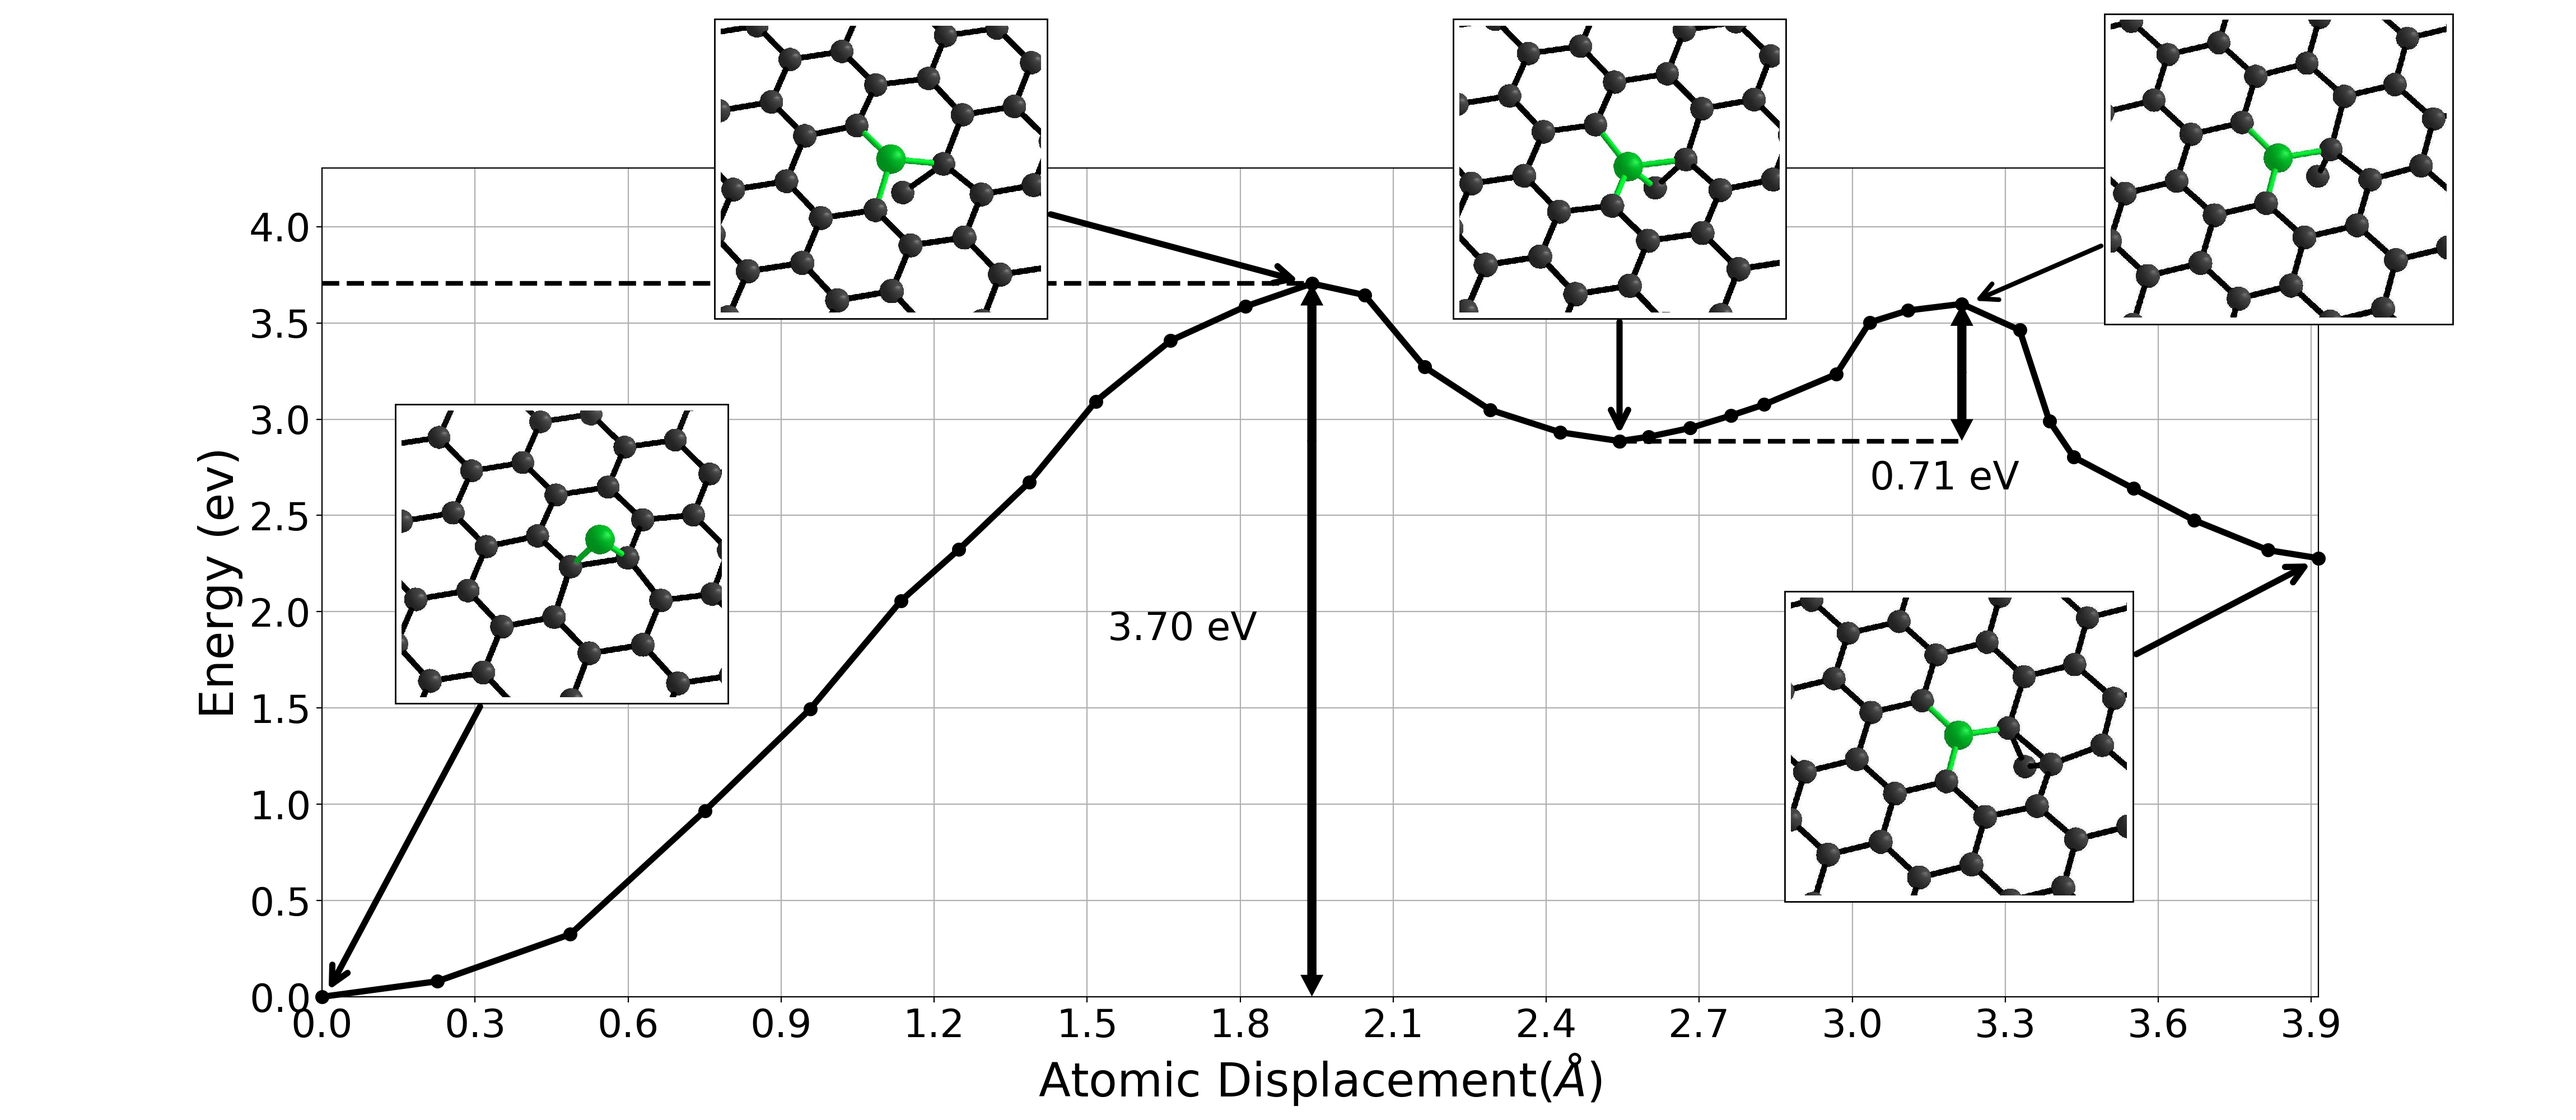
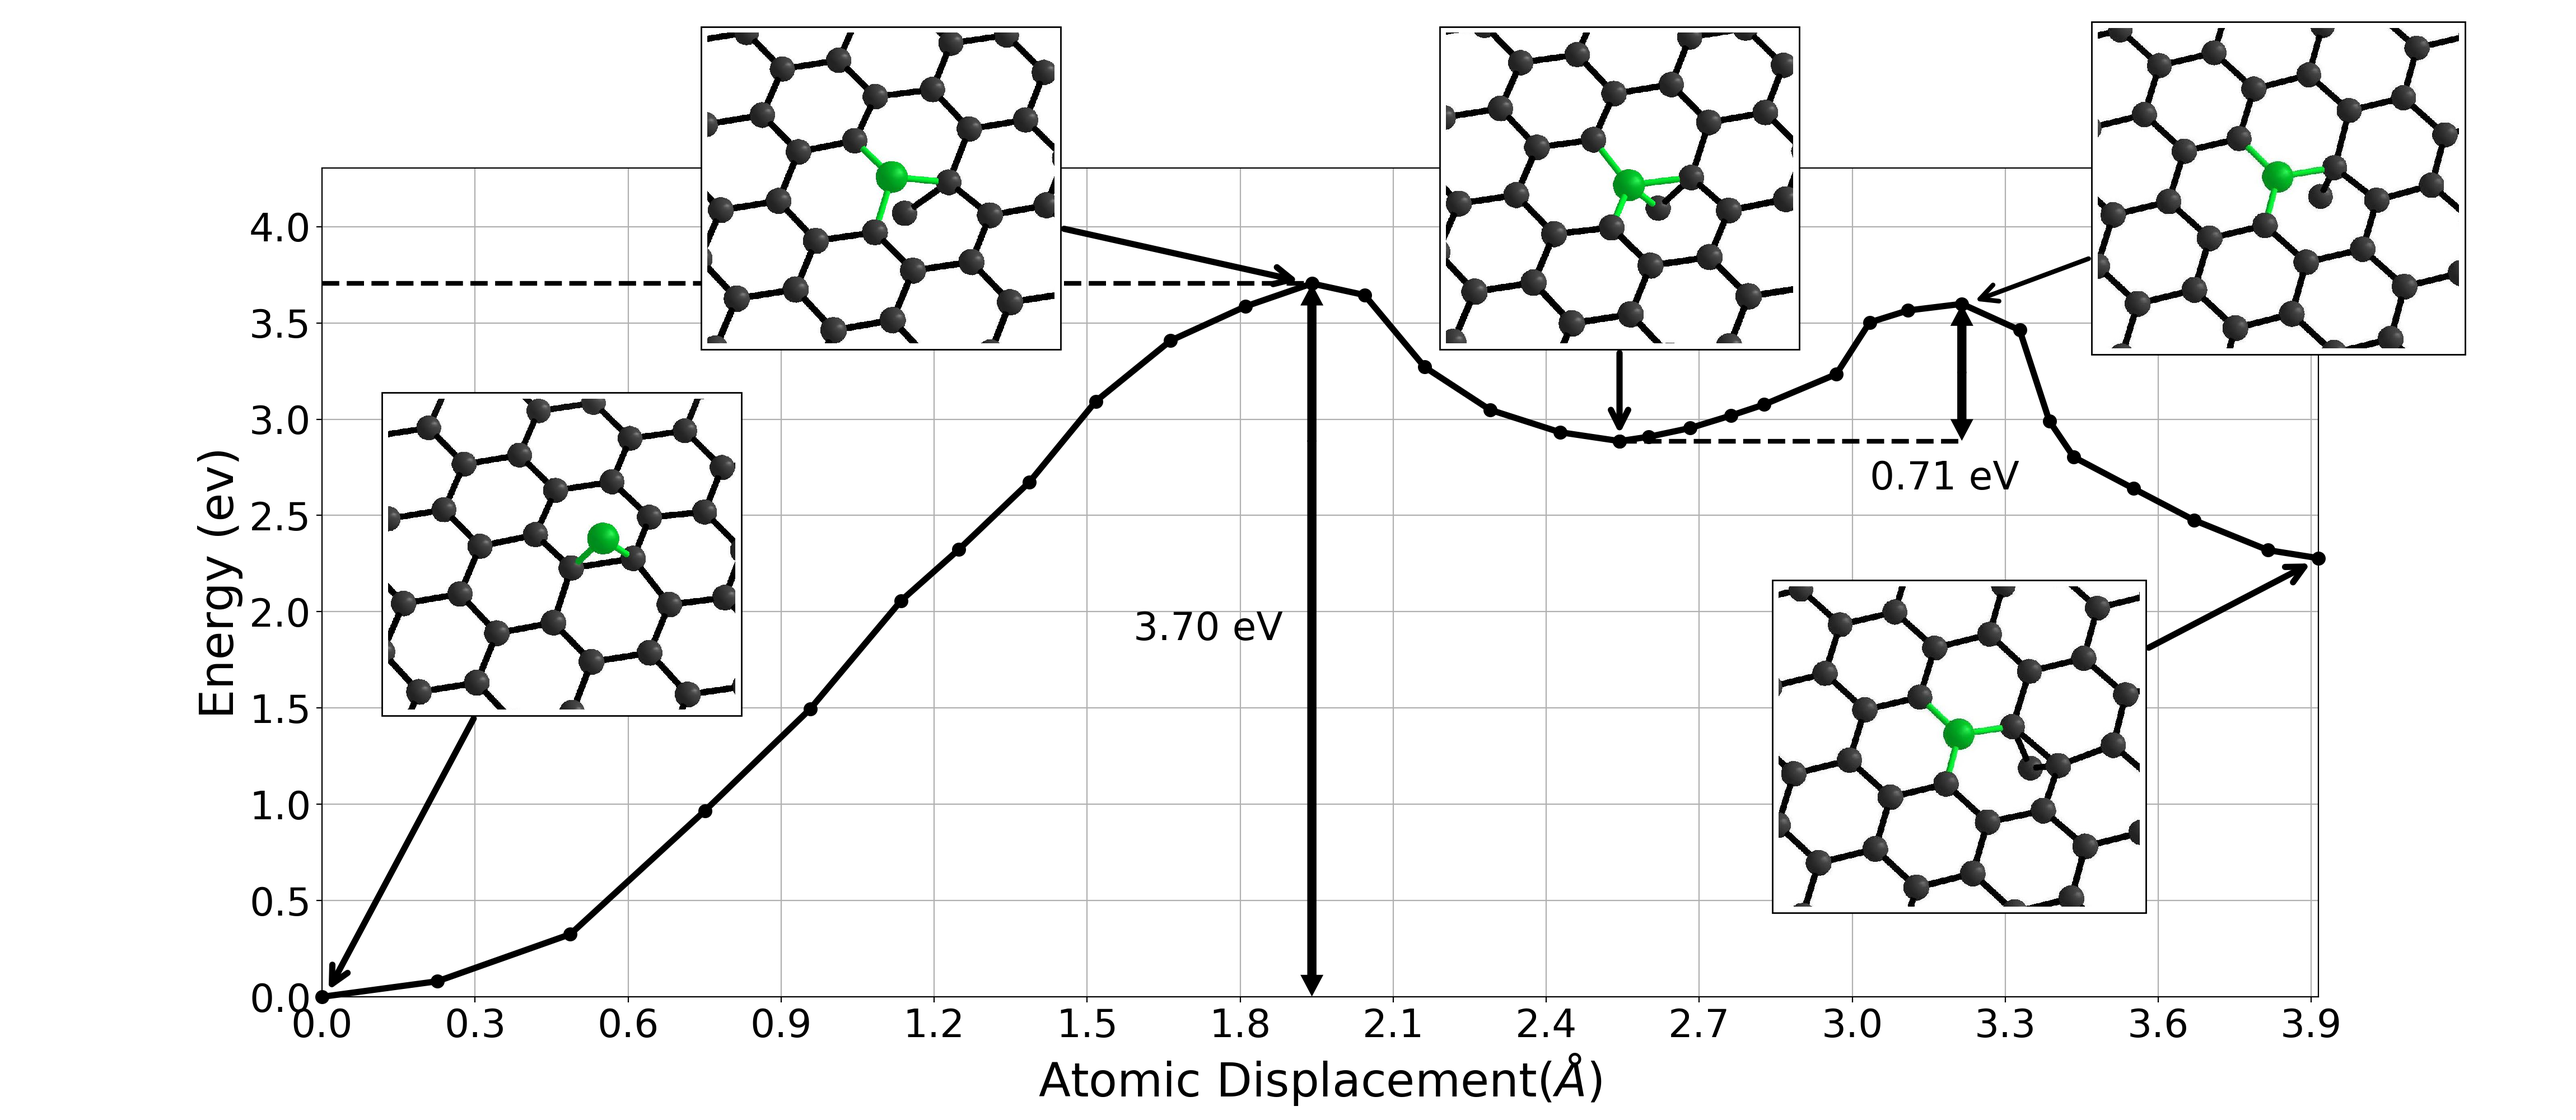
sc2 inverse images plus grandes

diff --git a/figures/sc2_inverse/figure_sc2_inverse.py b/figures/sc2_inverse/figure_sc2_inverse.py
@@ -92,7 +92,7 @@ ax.arrow(
 )
 
 ax.text(
-    distances1[max1] - 0.4,
+    distances1[max1] - 0.35,
     reaction1[max1] / 2,
     "{:4.2f} eV".format(reaction1[max1]),
     fontsize=25,
@@ -110,8 +110,7 @@ image3 = Image.open("posinp17.jpg")
 image4 = Image.open("posinp24.jpg")
 image5 = Image.open("posinp33.jpg")
 
-zoom = 0.24
-zoom2 = 0.27
+zoom, zoom2 = 0.26, 0.29
 imagebox1 = OffsetImage(image1, zoom=zoom)
 imagebox2 = OffsetImage(image2, zoom=zoom)
 imagebox3 = OffsetImage(image3, zoom=zoom)
@@ -133,19 +132,19 @@ ab1 = AnnotationBbox(
 ab2 = AnnotationBbox(
     imagebox2,
     [distances1[max1] - 0.02, reaction1[max1] + 0.01],
-    xybox=[0.28 * distances2[-1], 4.3],
+    xybox=[0.28 * distances2[-1], 4.2],
     arrowprops=dict(arrowstyle="->", linewidth=4),
 )
 ab3 = AnnotationBbox(
     imagebox3,
     [distances1[-1], reaction1[-1] + 0.02],
-    xybox=[distances1[-1], 4.3],
+    xybox=[distances1[-1], 4.2],
     arrowprops=dict(arrowstyle="->", linewidth=4),
 )
 ab4 = AnnotationBbox(
     imagebox4,
     [distances2[max2] + 0.02, reaction2[max2] + 0.01],
-    xybox=[0.98 * distances2[-1], 4.3],
+    xybox=[0.98 * distances2[-1], 4.2],
     arrowprops=dict(arrowstyle="->", linewidth=3),
 )
 ab5 = AnnotationBbox(
